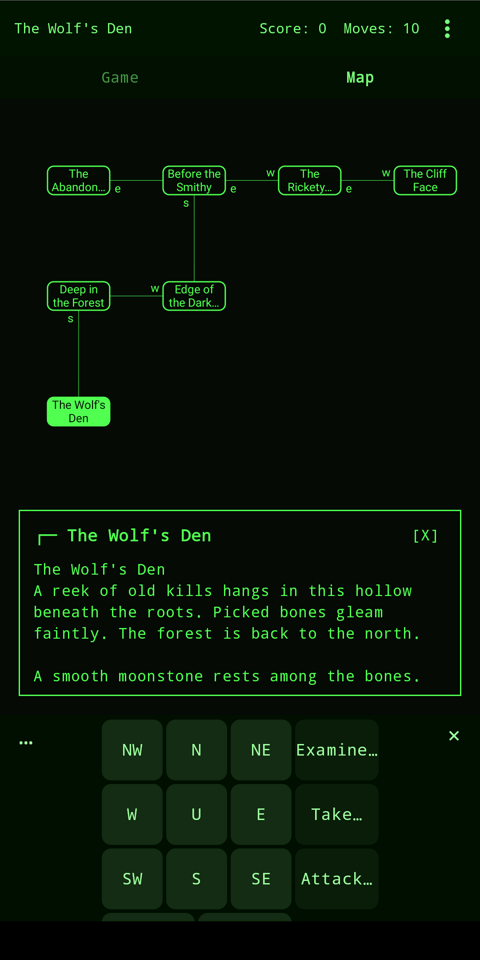
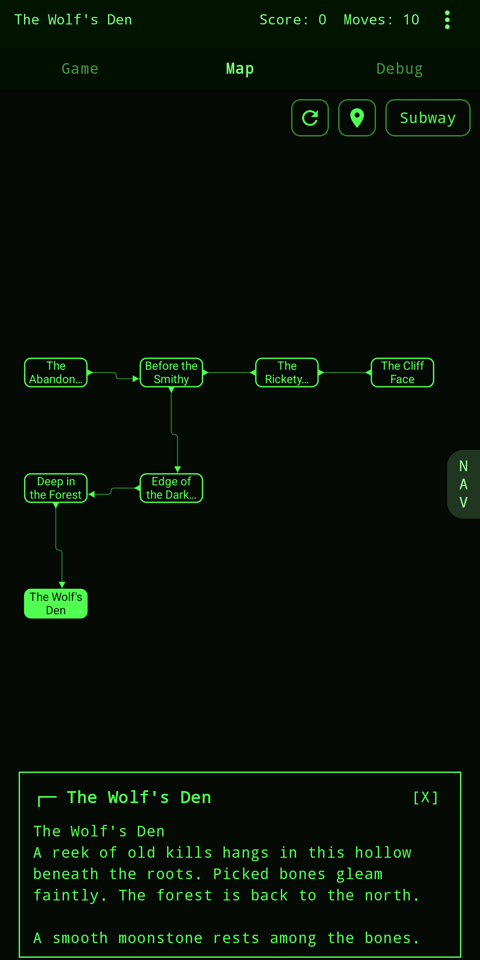
site: update map screenshot to subway mode
Regenerate the auto-map screenshot from the Ironwood demo with the new
Subway line style (directional arrows + routed connectors), and update
its alt text to match.

Claude-Session: https://claude.ai/code/session_01HetXK9ZivRdjojzjGv3Dab

diff --git a/index.html b/index.html
@@ -22,7 +22,7 @@
     <section class="screenshots">
       <img src="screenshots/retro.png" alt="IFMachine in retro terminal mode, green text on a black background.">
       <img src="screenshots/chat.png" alt="IFMachine in chat-bubble mode, with player commands and responses styled like a messaging app.">
-      <img src="screenshots/map.png" alt="An auto-generated map view of nearby rooms with a directional keypad overlay.">
+      <img src="screenshots/map.png" alt="An auto-generated subway-style map of rooms you've visited, with the current room highlighted.">
     </section>
 
     <section class="prose">
